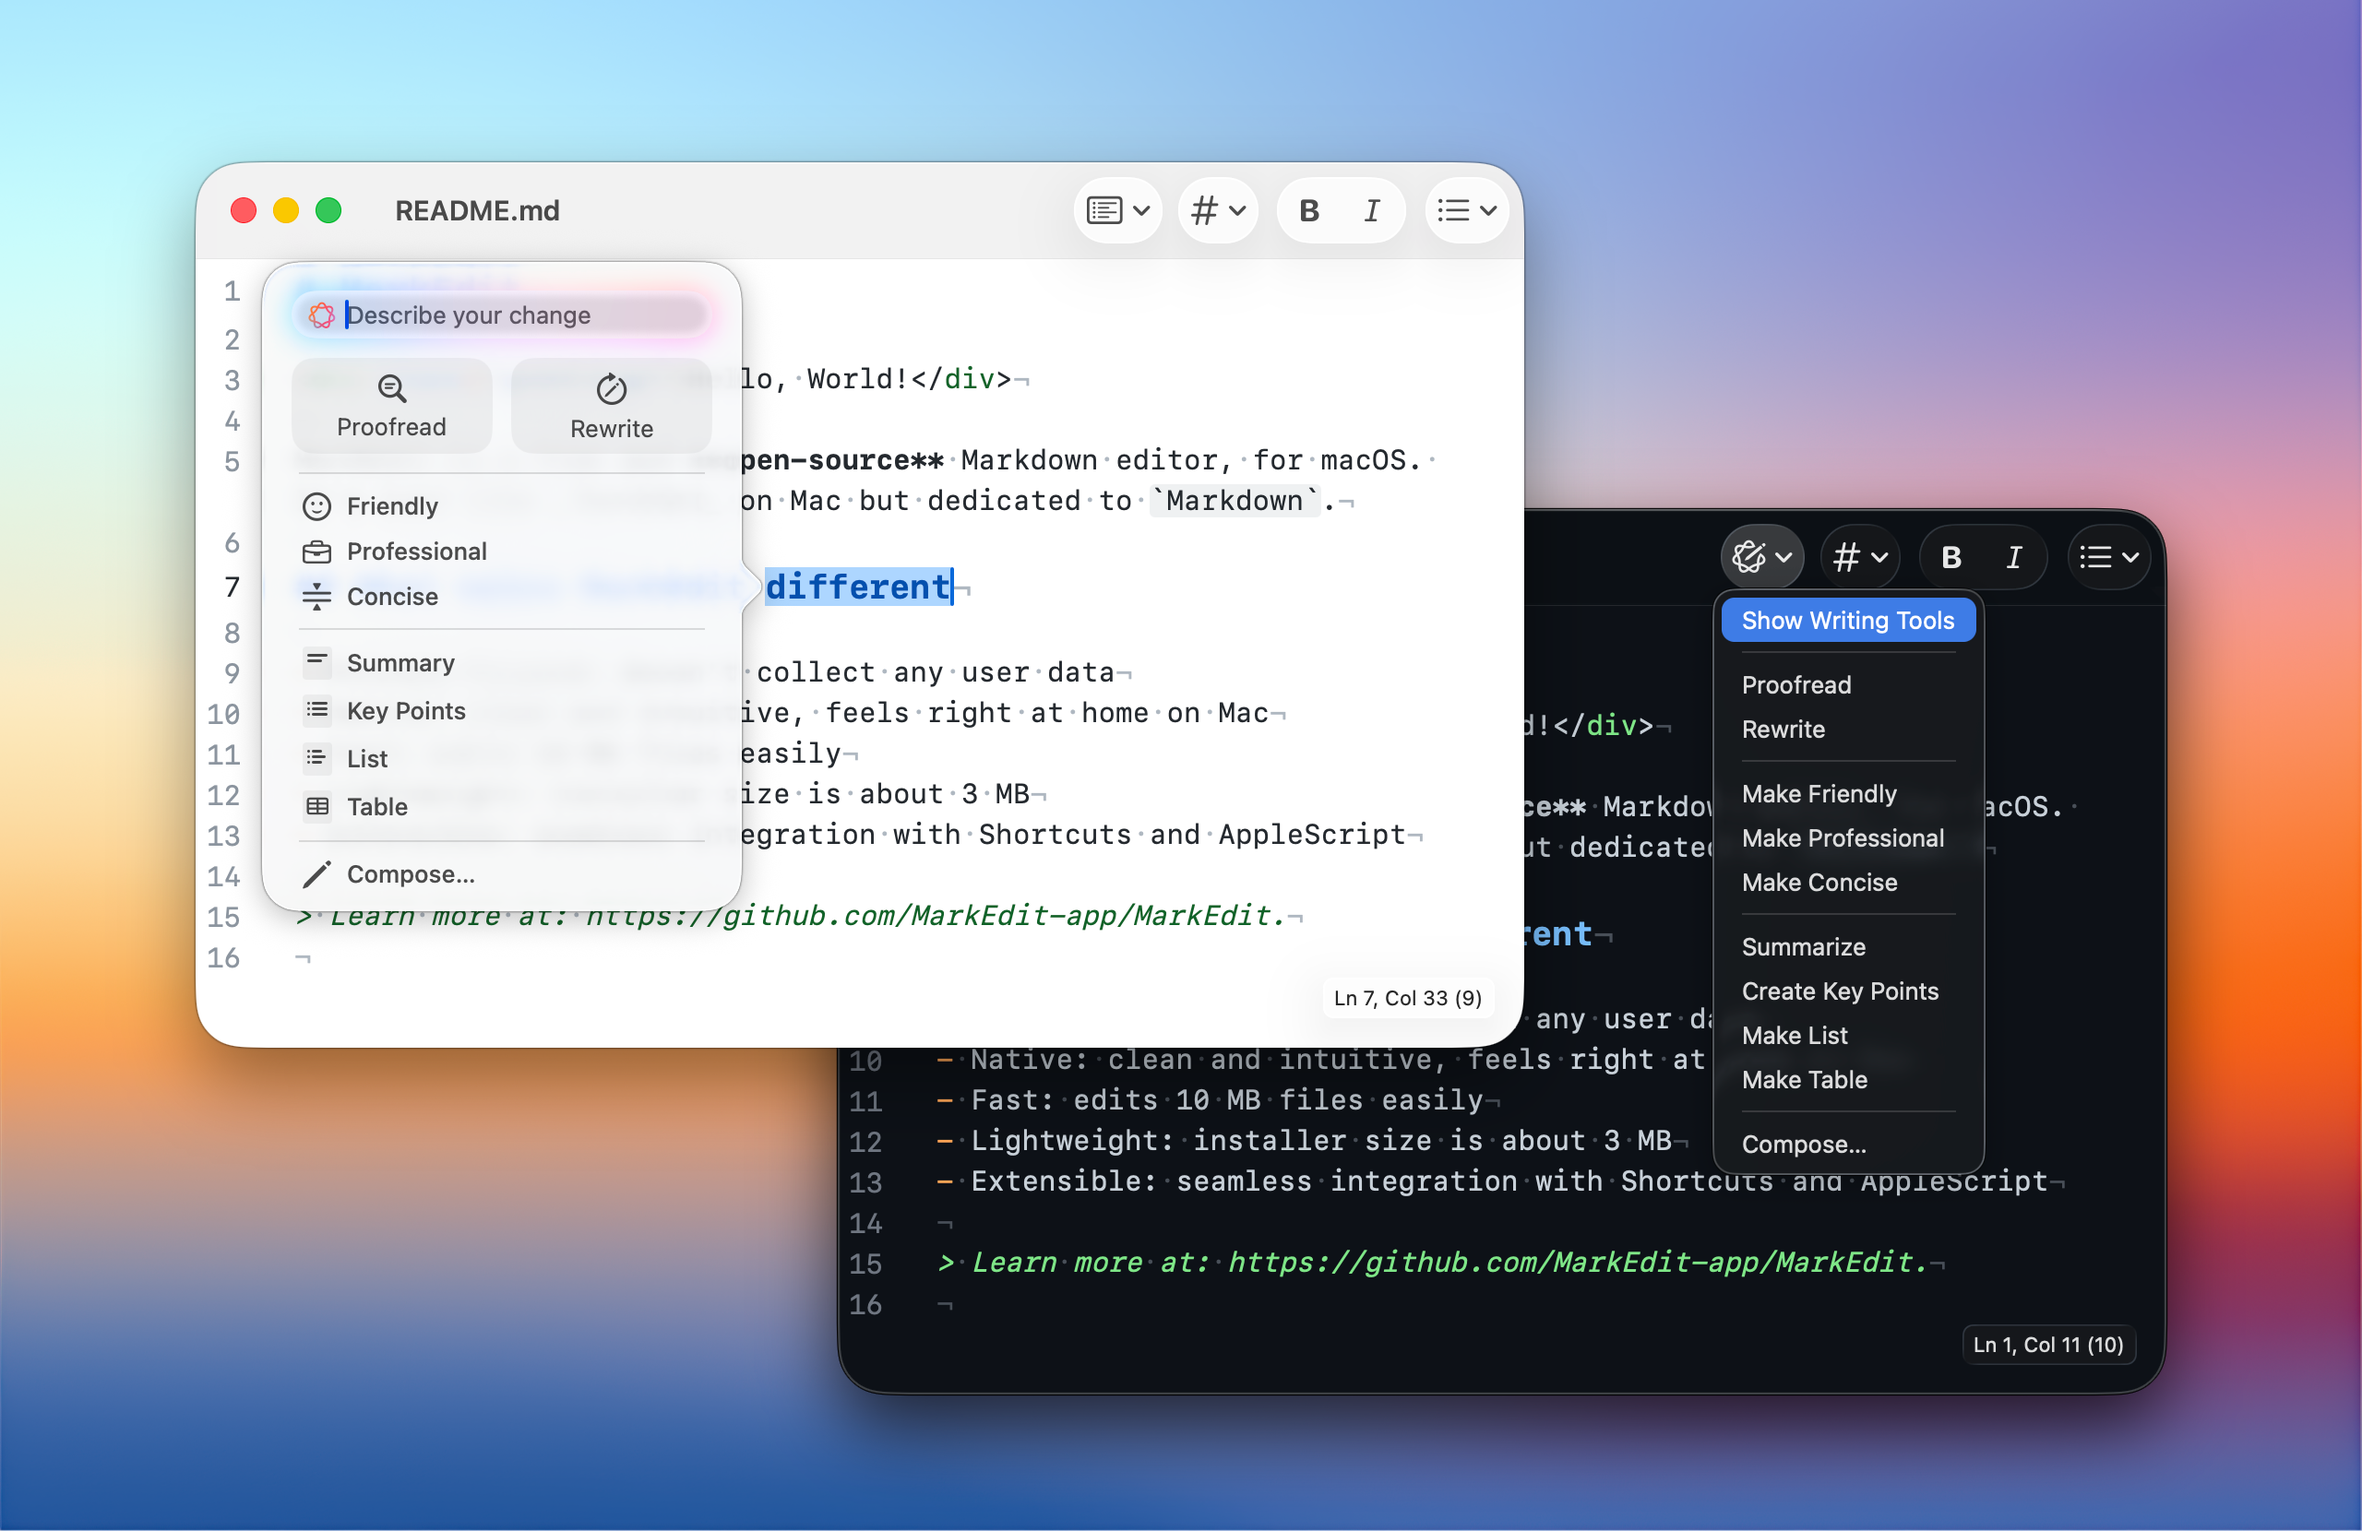
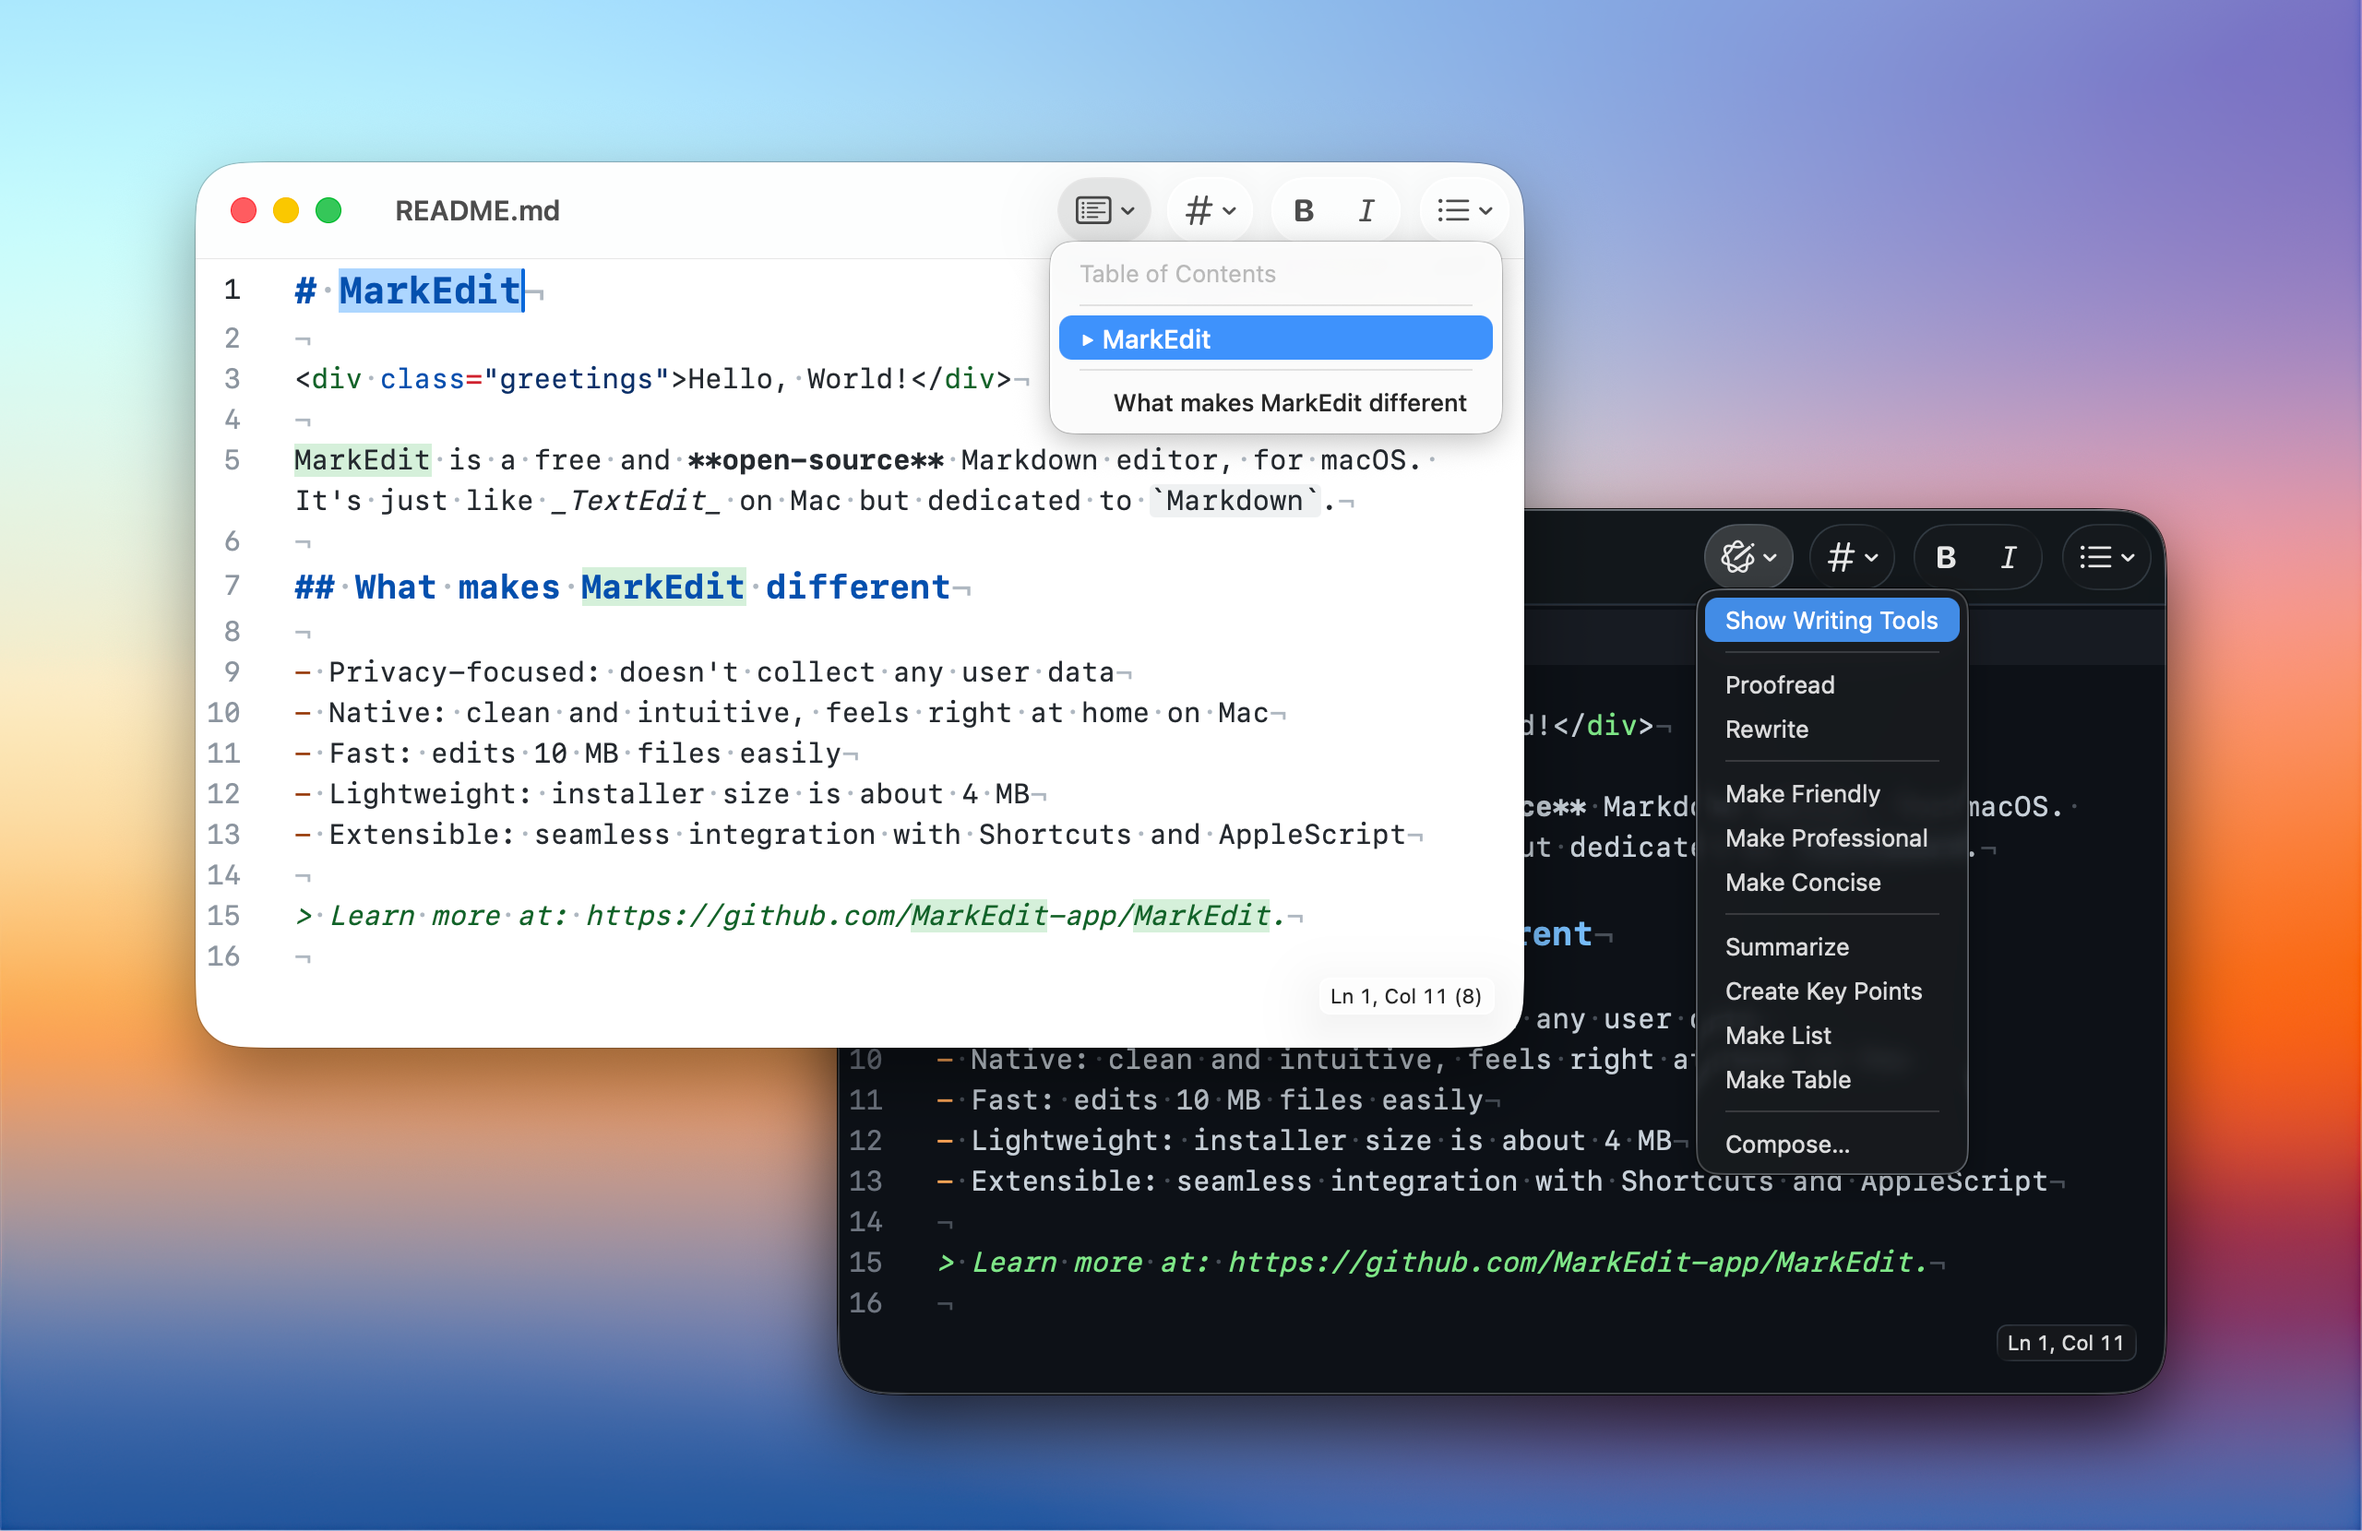
Refresh screenshots

diff --git a/MarkEditMac/Sources/Editor/Models/EditorDocument.swift b/MarkEditMac/Sources/Editor/Models/EditorDocument.swift
@@ -103,6 +103,15 @@ final class EditorDocument: NSDocument {
 
     NSApplication.shared.closeOpenPanels()
     addWindowController(windowController)
+
+    #if DEBUG
+      if ProcessInfo.processInfo.environment["DEBUG_TAKING_SCREENSHOTS"] == "YES" {
+        DispatchQueue.main.asyncAfter(deadline: .now() + 0.5) {
+          windowController.window?.setFrameSize(CGSize(width: 720, height: 480))
+          windowController.window?.center()
+        }
+      }
+    #endif
   }
 
   func waitUntilSaveCompleted(userInitiated: Bool = false, delay: TimeInterval = 0.6) async {
